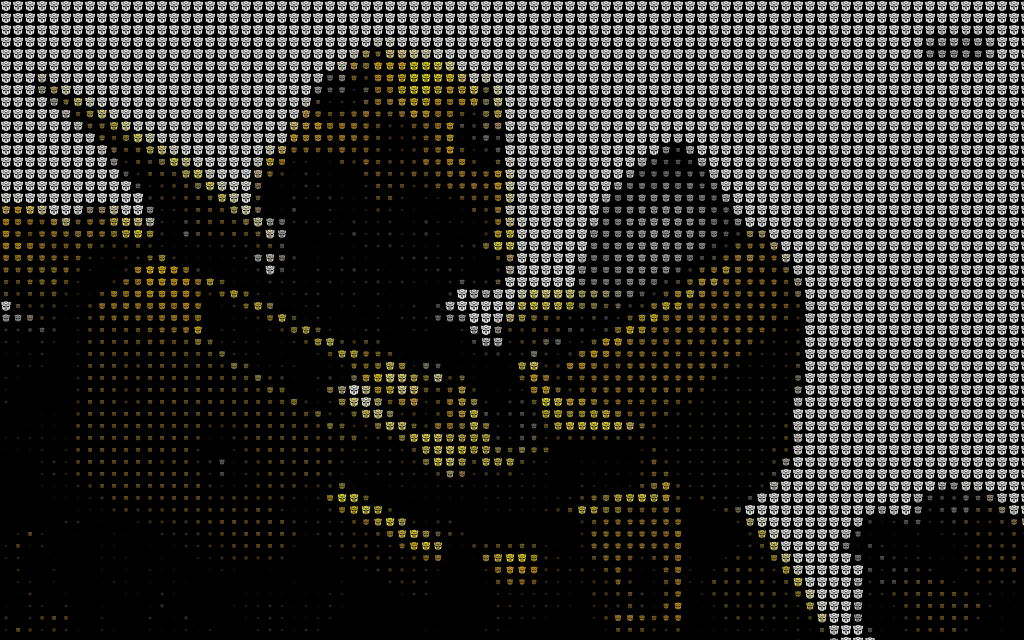
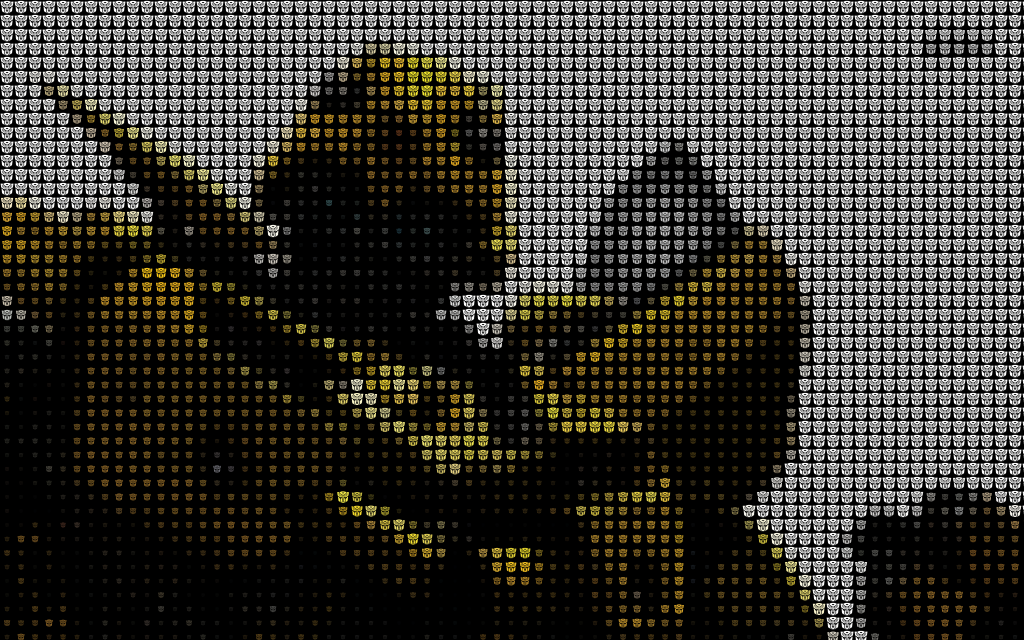
updated a few images

diff --git a/pr08/main.js b/pr08/main.js
@@ -520,7 +520,7 @@ function artisticScreen( inImg, m, n ) {
 			// choose a mask based on the average brightness
             var cAvg = cSum.mul(1.0 / ((x1-x0) * (y1-y0)));
             var avgLev = cAvg.intensity();
-            var mid = Math.round((1.0 - (avgLev/255.0) * 0.75) * (nmasks-1));
+            var mid = Math.round((1.0 - (avgLev/255.0)) * 0.75 * (nmasks-1));
 			var m = mask[mid];
 
 			// apply the mask
